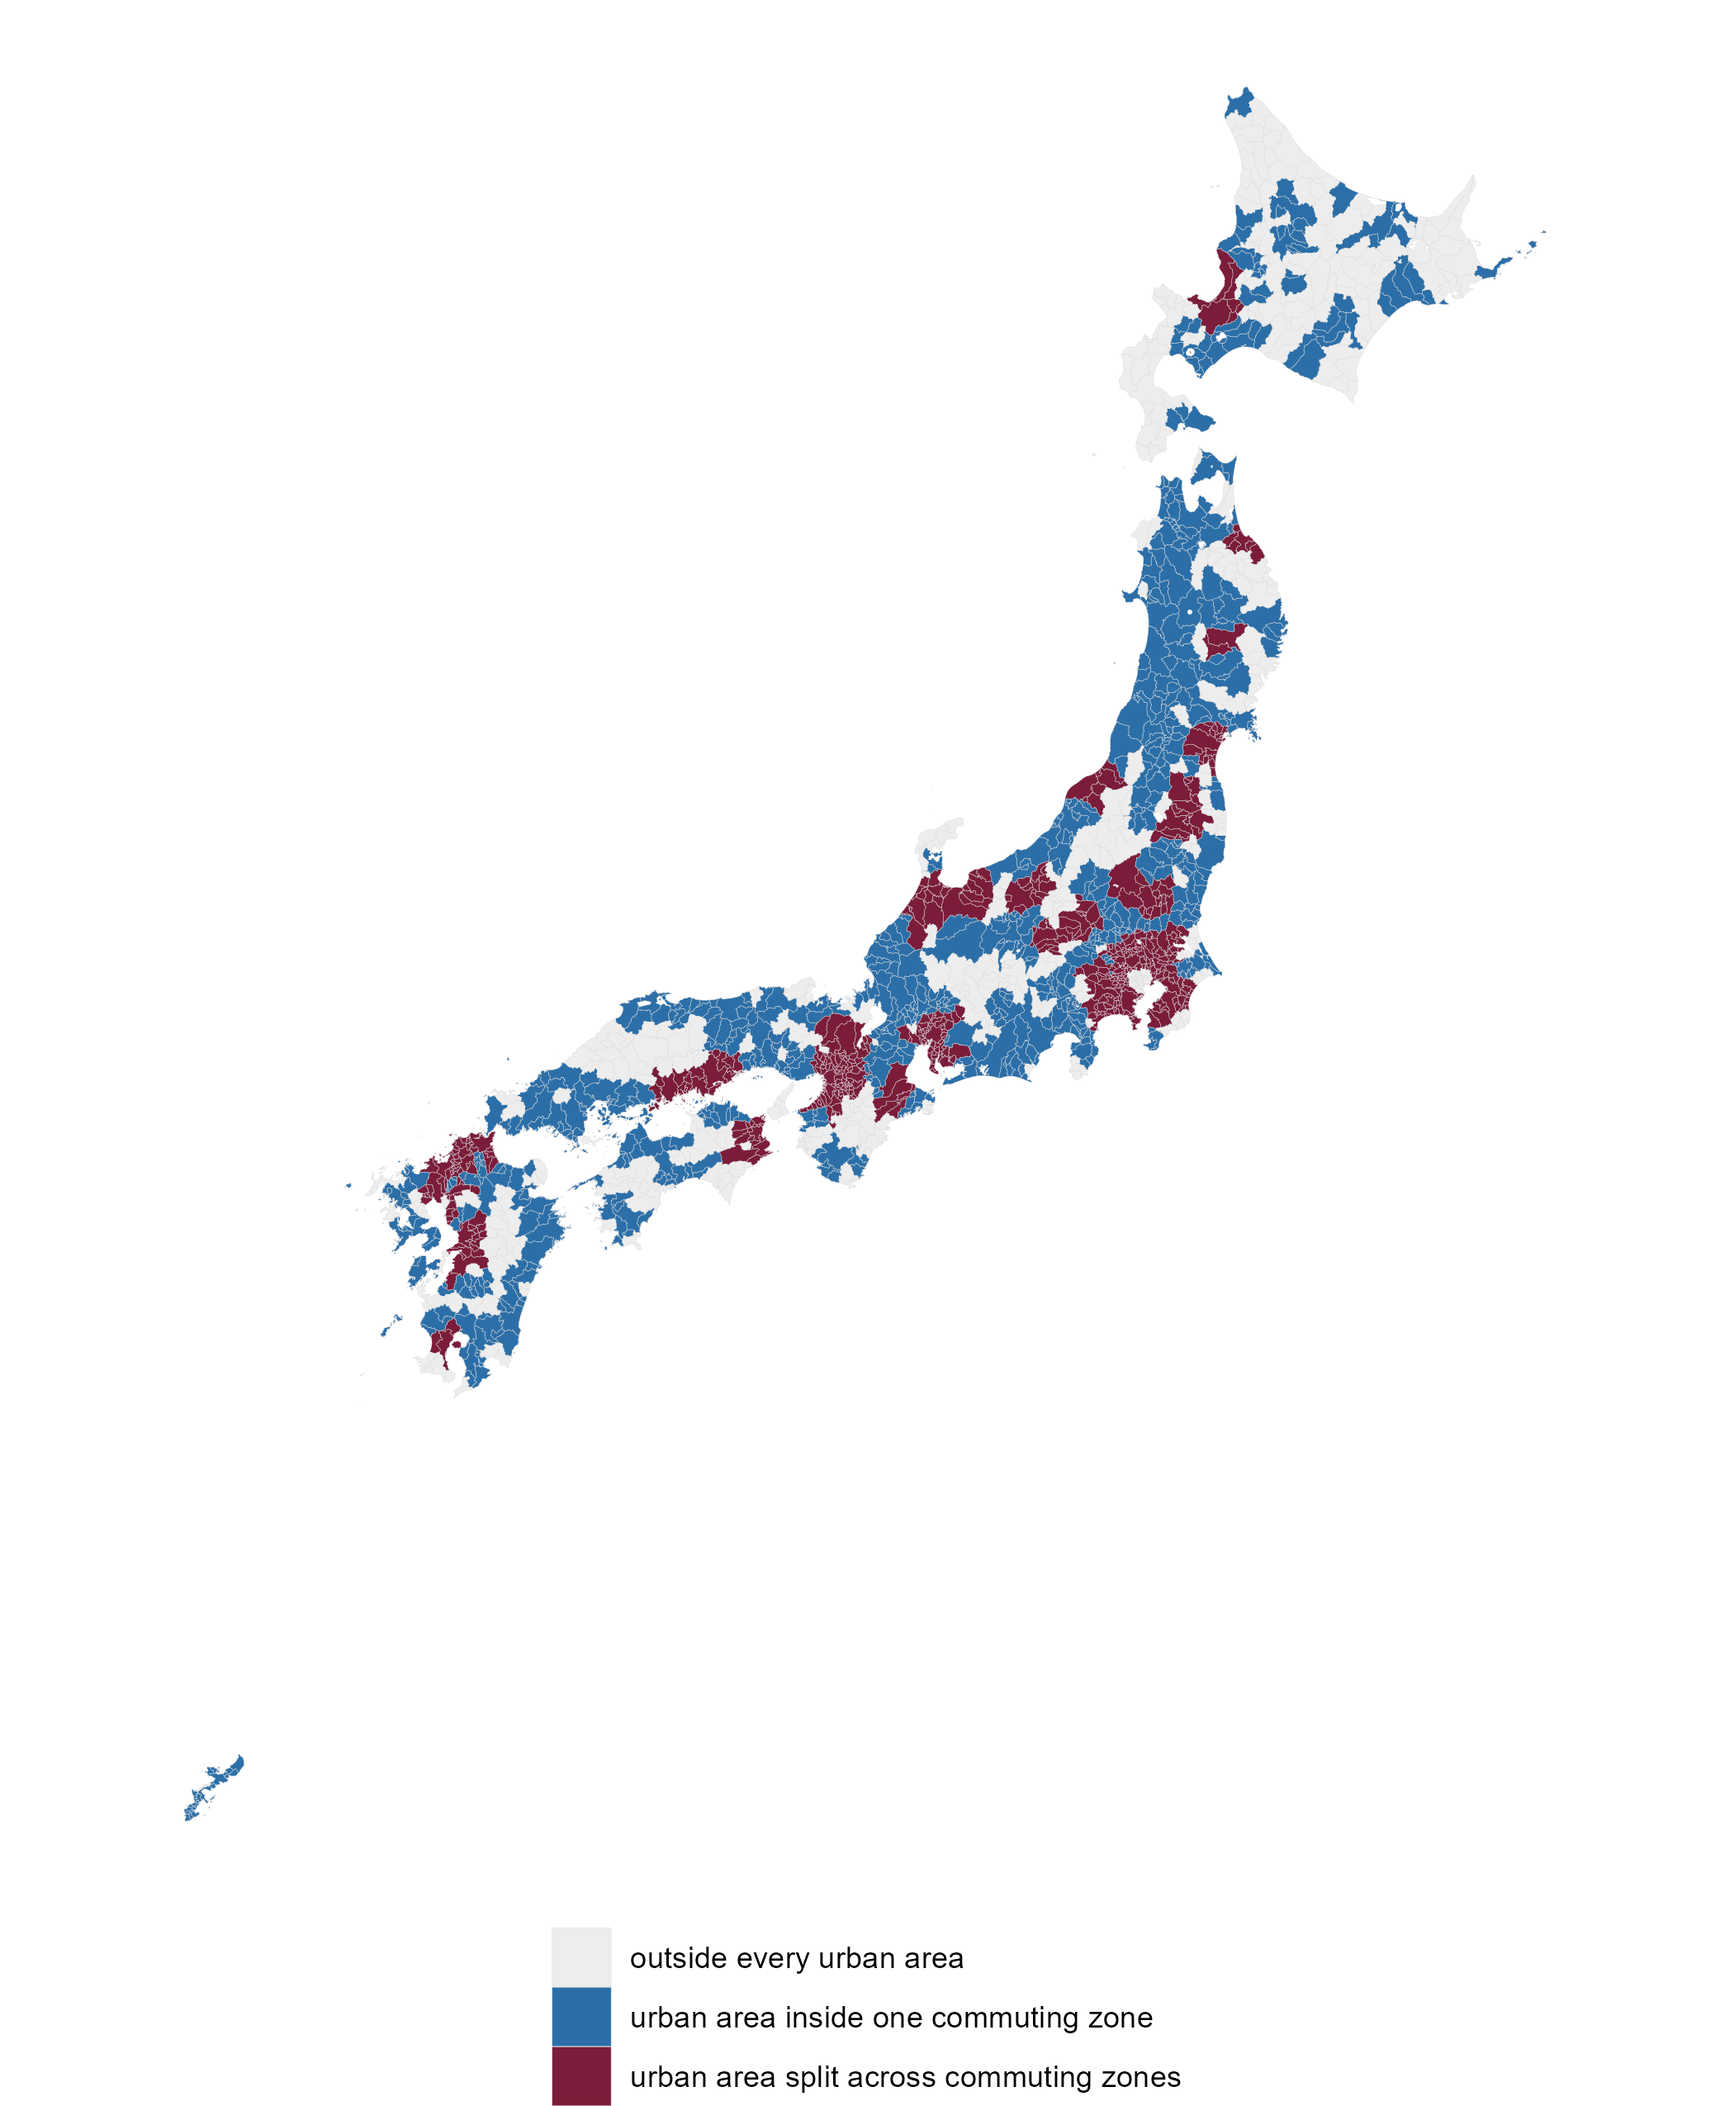
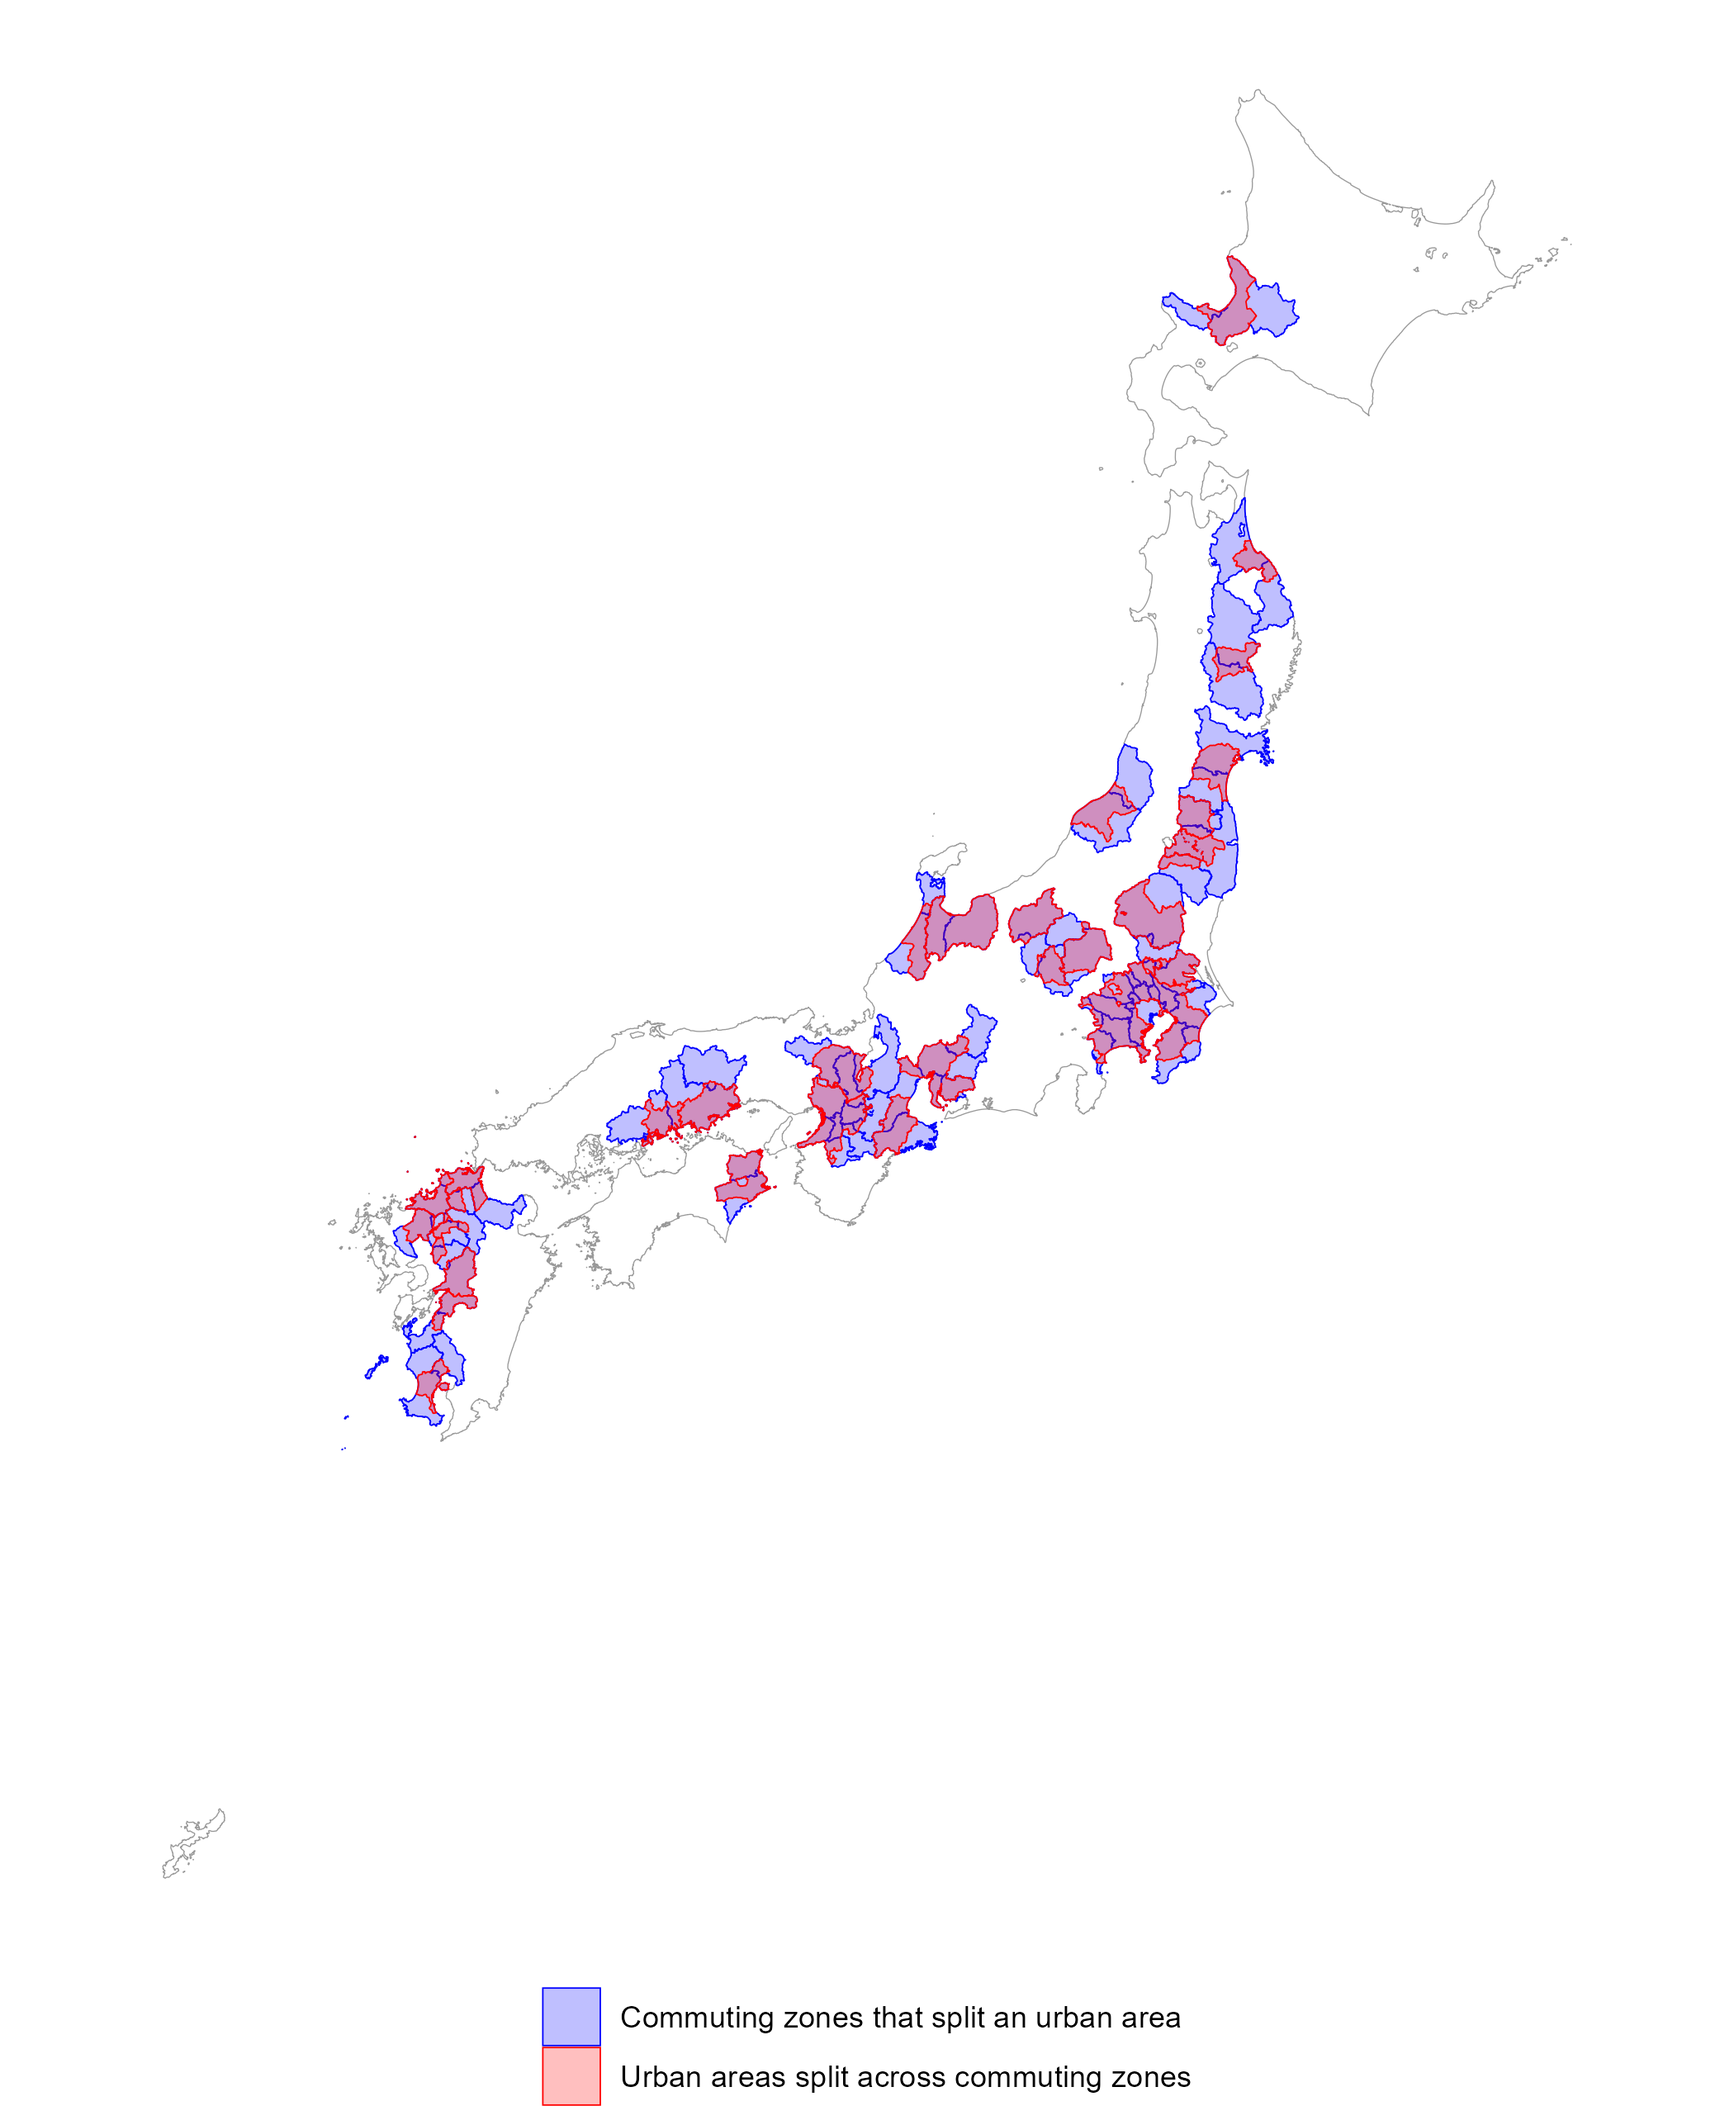
figures: draw the split urban areas the way the source paper does
The map now carries both sides of the split as dissolved, translucent, outlined layers:
the urban areas that are split in red over the commuting zones that split them in blue.
An area is read as lying across a zone boundary, which is the fact the measure counts.
The previous version drew a municipality-level classification with no zone layer at all,
so it showed that an area was split without showing what split it, and it drew the 176
unsplit areas as well, which buried the 32 that matter.

Claude-Session: https://claude.ai/code/session_014HWFPLG6CCa9ySK88ZrMLP

Changed region(s): [[0.1857, 0.031, 0.8667, 0.6816], [0.3095, 0.9294, 0.681, 1.0], [0.0929, 0.8365, 0.1548, 0.8984]]

diff --git a/validation/notes/replication_results.md b/validation/notes/replication_results.md
@@ -44,7 +44,7 @@ The adjacency graph itself was checked for the generalization artifacts that wou
 
 The two definitions agree on direction and on time trend but not on level, and the gap is informative rather than troubling. The Urban Employment Area marks a single central city per area and excludes any municipality that is already a suburb of another, so its core set is smaller and more concentrated than a threshold rule that marks every municipality with a large enough dense population. Reading the two together is the point: the district rule cannot be re-reading the commuting flows the delineation was built from, and it moves the same way over time, so the Core measures are picking up urban structure rather than the delineation's own inputs.
 
-`split_urban_areas_2020_cut0.980.png` maps the fourth measure. Of the 208 Urban Employment Areas in 2020, 32 are split across more than one commuting zone. The count fell from 51 in 2000 to 28 in 2010 and has been roughly flat since, which tracks the consolidation of the zones themselves.
+`split_urban_areas_2020_cut0.980.png` maps the fourth measure, laying the split urban areas over the commuting zones that split them so that each area is seen straddling a zone boundary; areas that fall inside one zone are not drawn. Of the 208 Urban Employment Areas in 2020, 32 are split across more than one commuting zone. The count fell from 51 in 2000 to 28 in 2010 and has been roughly flat since, which tracks the consolidation of the zones themselves.
 
 ## What is not here
 
